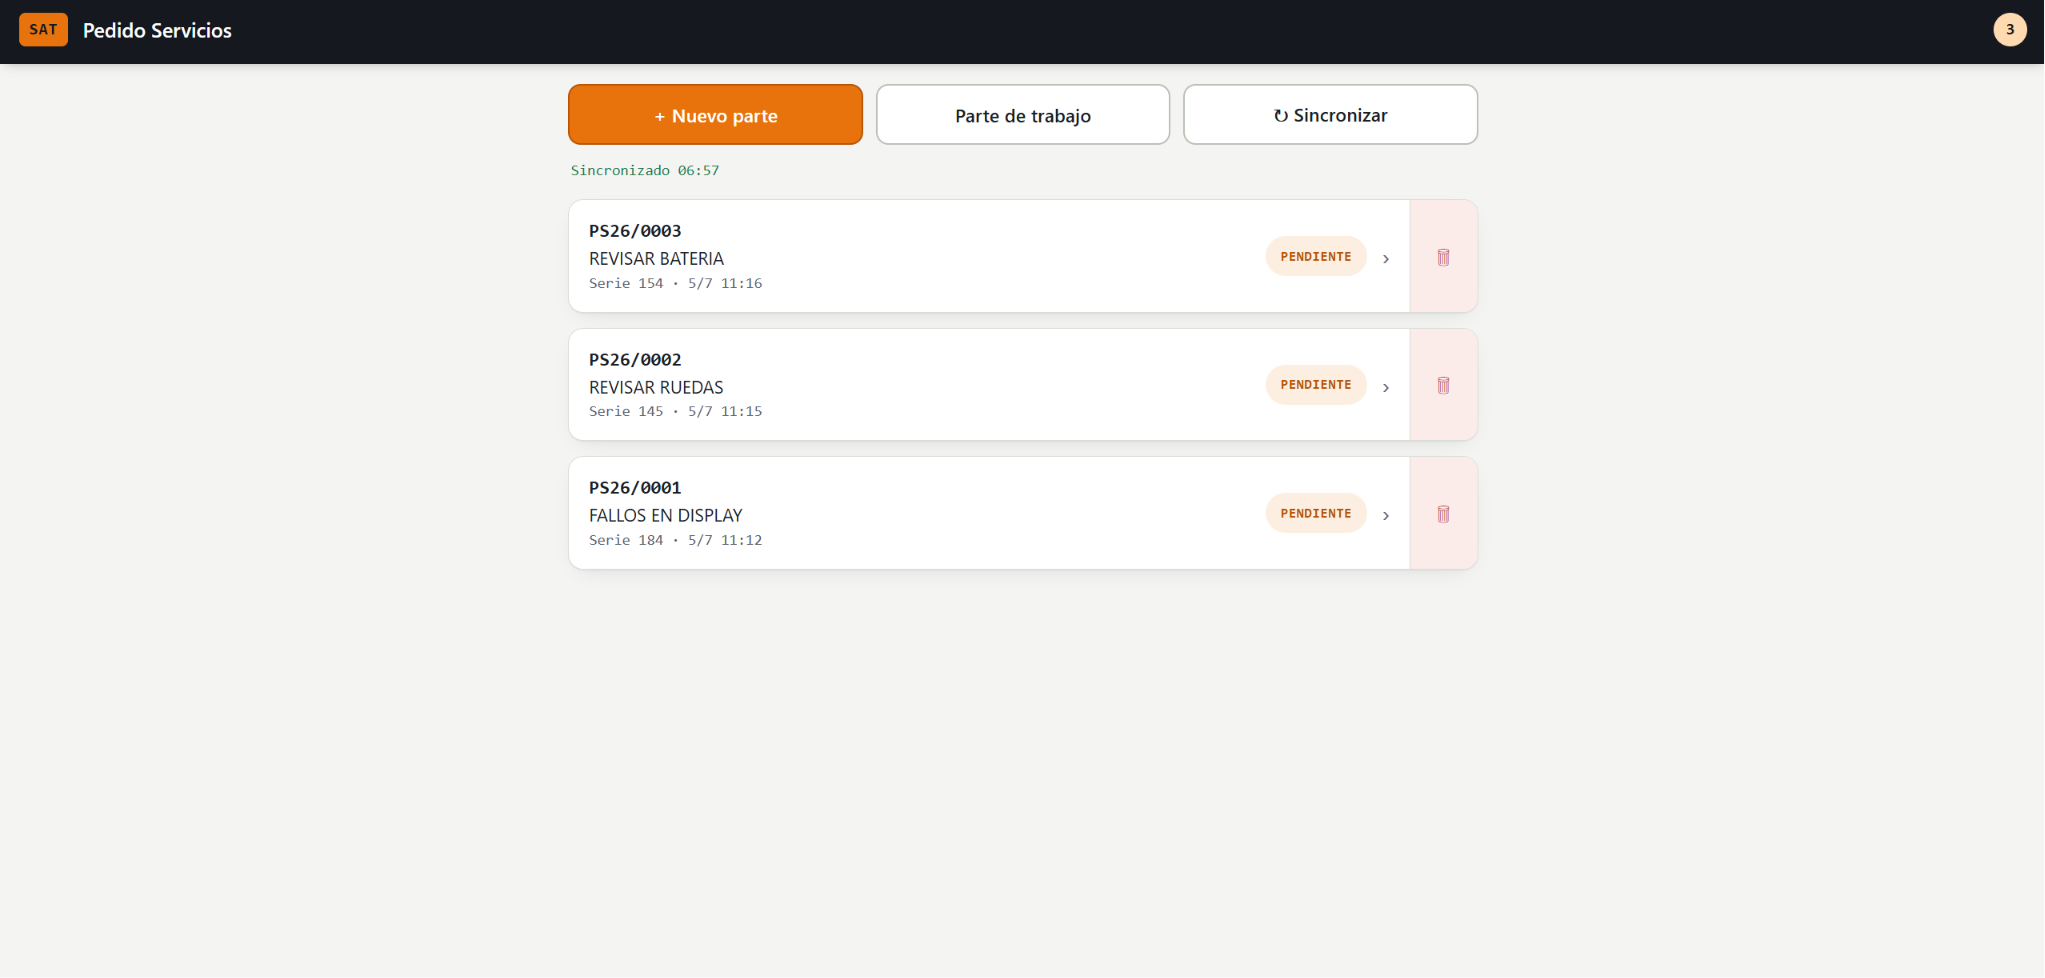
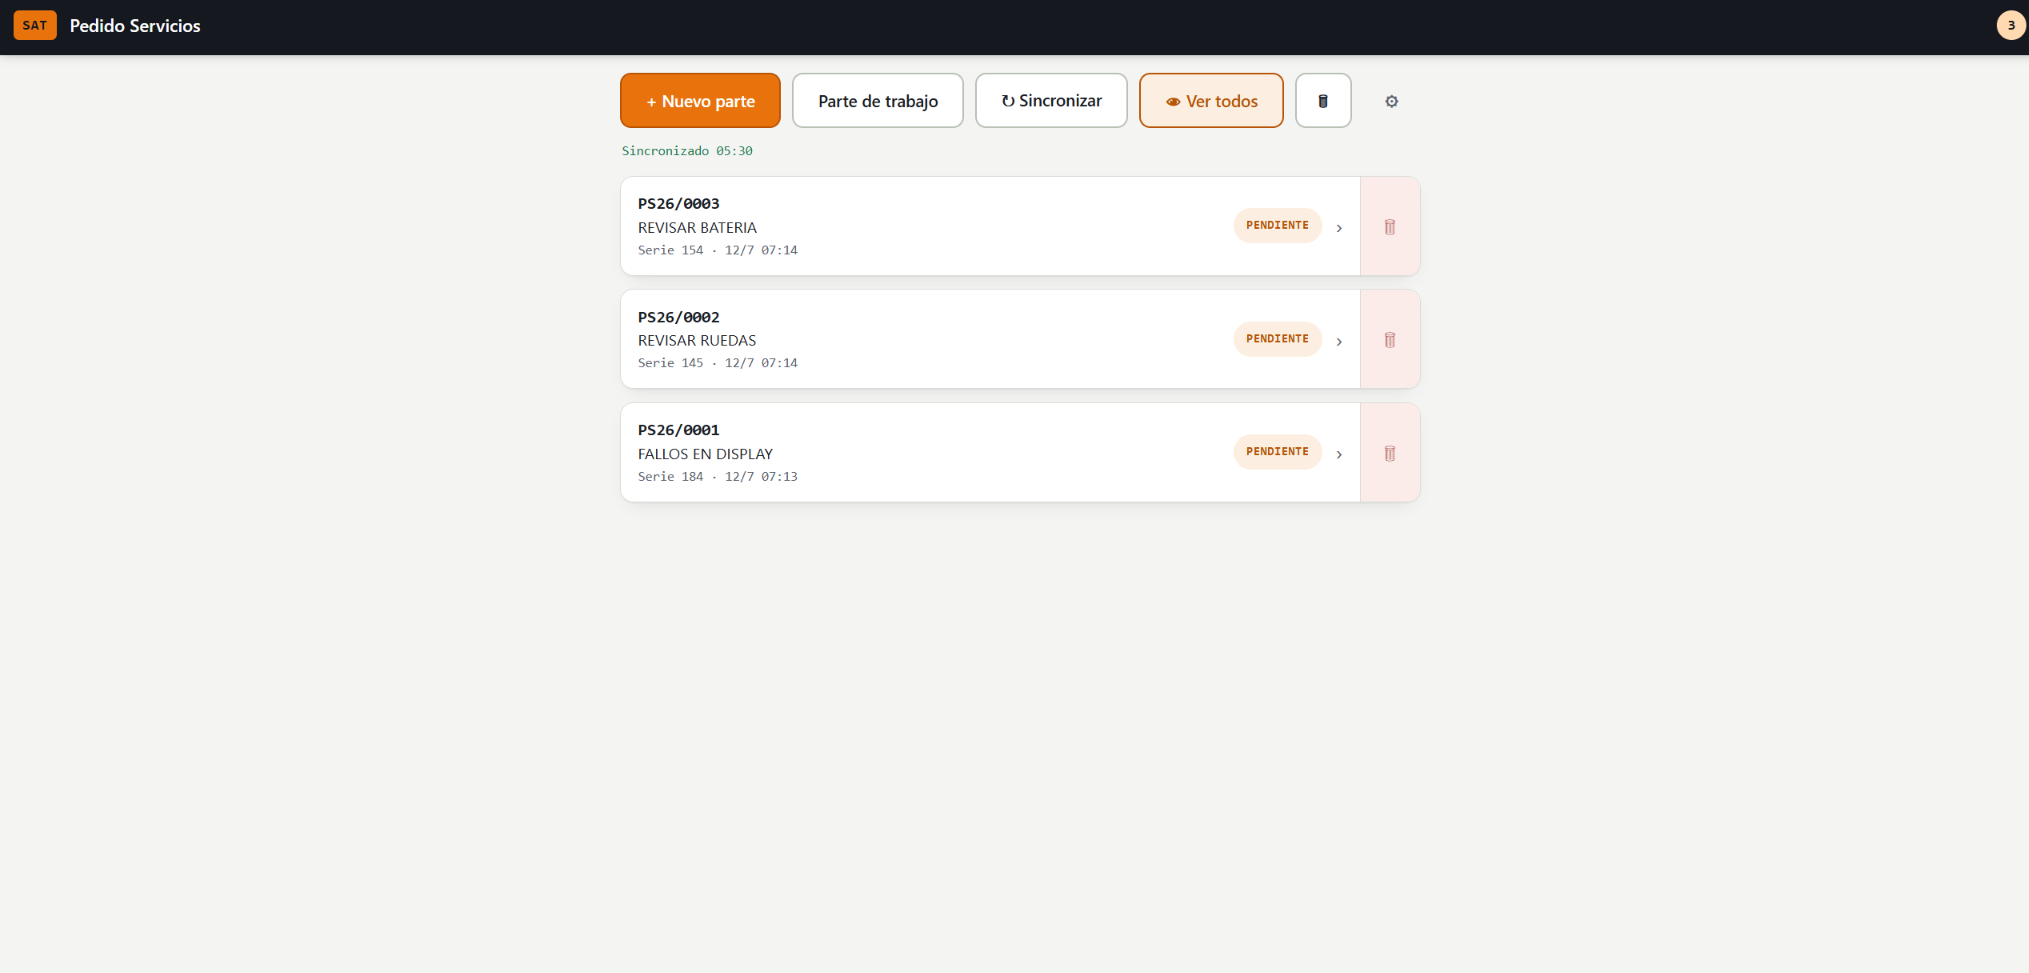
feat(rediseno): lightbox de capturas, mejoras SEO/UX y capturas actualizadas
- Lightbox para imágenes de proyectos (GIF AGV + capturas Pedido Servicios)
- Capturas de Pedido Servicios actualizadas
- SEO: og:image, twitter cards, JSON-LD (Person), og:site_name/locale
- UX: scroll-margin-top en anclas, scroll-spy en el nav, cierre del menú móvil con Esc/clic fuera
- Marco cian de separación en la tarjeta ancha
- README: añadida Calculadora de Nómina

Changed region(s): [[0.0, 0.0, 1.0, 0.555], [0.5899, 0.4317, 0.6831, 0.555]]

diff --git a/js/main.js b/js/main.js
@@ -14,16 +14,41 @@
 
   // Menú móvil
   if (burger && nav) {
-    burger.addEventListener("click", () => {
-      const open = nav.classList.toggle("open");
+    const setMenu = (open) => {
+      nav.classList.toggle("open", open);
       burger.setAttribute("aria-expanded", String(open));
-    });
+      burger.setAttribute("aria-label", open ? "Cerrar menú" : "Abrir menú");
+    };
+    burger.addEventListener("click", () => setMenu(!nav.classList.contains("open")));
     nav.querySelectorAll(".nav__links a").forEach((a) =>
-      a.addEventListener("click", () => {
-        nav.classList.remove("open");
-        burger.setAttribute("aria-expanded", "false");
-      })
+      a.addEventListener("click", () => setMenu(false))
     );
+    document.addEventListener("keydown", (e) => {
+      if (e.key === "Escape") setMenu(false);
+    });
+    document.addEventListener("click", (e) => {
+      if (nav.classList.contains("open") && !nav.contains(e.target)) setMenu(false);
+    });
+  }
+
+  // Scroll-spy: resalta el enlace de la sección visible
+  const navLinks = Array.from(document.querySelectorAll(".nav__links a"));
+  const spySections = navLinks
+    .map((a) => document.querySelector(a.getAttribute("href")))
+    .filter(Boolean);
+  if ("IntersectionObserver" in window && spySections.length) {
+    const spy = new IntersectionObserver(
+      (entries) => {
+        entries.forEach((e) => {
+          if (e.isIntersecting) {
+            const id = "#" + e.target.id;
+            navLinks.forEach((a) => a.classList.toggle("active", a.getAttribute("href") === id));
+          }
+        });
+      },
+      { rootMargin: "-45% 0px -50% 0px" }
+    );
+    spySections.forEach((s) => spy.observe(s));
   }
 
   // Nav "scrolled" + barra de progreso
@@ -108,6 +133,36 @@
     levels.forEach((el) => {
       el.style.setProperty("--w", el.dataset.lvl + "%");
       el.classList.add("animate");
+    });
+  }
+
+  // Lightbox para imágenes ampliables
+  const lightbox = document.getElementById("lightbox");
+  const lightboxImg = document.getElementById("lightboxImg");
+  const lightboxClose = document.getElementById("lightboxClose");
+  if (lightbox && lightboxImg) {
+    const openLightbox = (src, alt) => {
+      lightboxImg.src = src;
+      lightboxImg.alt = alt || "";
+      lightbox.classList.add("open");
+      lightbox.setAttribute("aria-hidden", "false");
+      document.body.style.overflow = "hidden";
+    };
+    const closeLightbox = () => {
+      lightbox.classList.remove("open");
+      lightbox.setAttribute("aria-hidden", "true");
+      document.body.style.overflow = "";
+      lightboxImg.src = "";
+    };
+    document.querySelectorAll("img.zoomable").forEach((img) =>
+      img.addEventListener("click", () => openLightbox(img.currentSrc || img.src, img.alt))
+    );
+    lightboxClose.addEventListener("click", closeLightbox);
+    lightbox.addEventListener("click", (e) => {
+      if (e.target === lightbox) closeLightbox();
+    });
+    document.addEventListener("keydown", (e) => {
+      if (e.key === "Escape" && lightbox.classList.contains("open")) closeLightbox();
     });
   }
 

diff --git a/css/styles.css b/css/styles.css
@@ -94,6 +94,7 @@ h1, h2, h3 { font-family: var(--font-display); line-height: 1.1; margin: 0; lett
 .nav__links { display: flex; gap: 6px; margin-left: auto; }
 .nav__links a { padding: 8px 14px; border-radius: 999px; font-size: 14px; font-weight: 500; color: var(--muted); transition: color 0.2s, background 0.2s; }
 .nav__links a:hover { color: var(--text); background: var(--surface); }
+.nav__links a.active { color: var(--text); background: var(--surface-2); box-shadow: inset 0 0 0 1px var(--line); }
 .nav__actions { display: flex; gap: 10px; }
 .nav__burger { display: none; flex-direction: column; gap: 5px; background: none; border: 0; cursor: pointer; padding: 8px; }
 .nav__burger span { width: 24px; height: 2px; background: var(--text); border-radius: 2px; transition: transform 0.3s, opacity 0.3s; }
@@ -151,6 +152,7 @@ h1, h2, h3 { font-family: var(--font-display); line-height: 1.1; margin: 0; lett
 @keyframes scrolldot { 0% { opacity: 0; transform: translateY(0); } 40% { opacity: 1; } 80% { opacity: 0; transform: translateY(14px); } }
 
 /* ---------- Sections ---------- */
+.hero, .section { scroll-margin-top: 84px; }
 .section { max-width: var(--maxw); margin: 0 auto; padding: 80px 24px; }
 .section__head { max-width: 720px; margin-bottom: 46px; }
 .eyebrow { display: inline-block; font-family: var(--font-display); font-size: 13px; font-weight: 600; letter-spacing: 0.14em; text-transform: uppercase; color: var(--brand); margin-bottom: 12px; }
@@ -207,7 +209,13 @@ h1, h2, h3 { font-family: var(--font-display); line-height: 1.1; margin: 0; lett
 .pcard__media img { width: 100%; height: 180px; object-fit: cover; border-bottom: 1px solid var(--line); }
 
 /* Tarjeta a todo el ancho: imágenes grandes arriba, texto debajo (estilo feature) */
-.pcard--wide { grid-column: 1 / -1; }
+.pcard--wide {
+  grid-column: 1 / -1;
+  border-color: rgba(0, 229, 255, 0.32);
+  background: linear-gradient(135deg, rgba(0, 229, 255, 0.09), rgba(255, 255, 255, 0.02));
+  box-shadow: var(--shadow);
+}
+.pcard--wide .pcard__media { border-bottom: 1px solid var(--line-strong); }
 .pcard--wide .pcard__media img { height: auto; object-fit: contain; }
 .pcard__body { padding: 26px; display: flex; flex-direction: column; gap: 10px; }
 .pcard__body h3 { font-size: 1.3rem; }
@@ -244,6 +252,43 @@ h1, h2, h3 { font-family: var(--font-display); line-height: 1.1; margin: 0; lett
 .field textarea { resize: vertical; }
 .hp { position: absolute; left: -9999px; opacity: 0; height: 0; overflow: hidden; }
 .status { margin: 4px 0 0; min-height: 20px; font-size: 14px; color: var(--muted); }
+
+/* ---------- Zoomable images + Lightbox ---------- */
+.zoomable { cursor: zoom-in; }
+.feature__media, .pcard__media { position: relative; }
+.feature__media::after, .pcard__media::after {
+  content: "🔍 Ampliar"; position: absolute; bottom: 12px; right: 12px;
+  padding: 6px 12px; border-radius: 999px; font-size: 12px; font-weight: 600;
+  background: rgba(7, 11, 22, 0.78); color: #fff; border: 1px solid var(--line-strong);
+  opacity: 0; transform: translateY(6px); transition: opacity 0.25s, transform 0.25s;
+  pointer-events: none; backdrop-filter: blur(6px);
+}
+.feature__media:hover::after, .pcard__media:hover::after { opacity: 1; transform: none; }
+
+.lightbox {
+  position: fixed; inset: 0; z-index: 200; display: none;
+  align-items: center; justify-content: center; padding: 4vmin;
+  background: rgba(4, 6, 14, 0.9); backdrop-filter: blur(8px);
+  opacity: 0; transition: opacity 0.25s ease;
+}
+.lightbox.open { display: flex; opacity: 1; }
+.lightbox__img {
+  max-width: 96vw; max-height: 92vh; width: auto; height: auto;
+  border-radius: var(--radius-sm); border: 1px solid var(--line-strong);
+  box-shadow: var(--shadow); transform: scale(0.97); transition: transform 0.25s ease;
+}
+.lightbox.open .lightbox__img { transform: none; }
+.lightbox__close {
+  position: absolute; top: 18px; right: 22px; width: 44px; height: 44px;
+  display: grid; place-items: center; border-radius: 50%; cursor: pointer;
+  background: var(--surface-2); border: 1px solid var(--line-strong); color: #fff;
+  font-size: 20px; line-height: 1; transition: background 0.2s, transform 0.15s;
+}
+.lightbox__close:hover { background: rgba(255, 255, 255, 0.14); transform: scale(1.05); }
+
+@media (prefers-reduced-motion: reduce) {
+  .lightbox, .lightbox__img { transition: none; }
+}
 
 /* ---------- Footer ---------- */
 .footer { max-width: var(--maxw); margin: 0 auto; padding: 30px 24px 50px; display: flex; justify-content: space-between; gap: 12px; color: var(--faint); font-size: 14px; border-top: 1px solid var(--line); }

diff --git a/index.html b/index.html
@@ -12,7 +12,7 @@
     <link rel="apple-touch-icon" href="/assets/icons/apple-touch-icon.png" />
     <link rel="manifest" href="/assets/icons/site.webmanifest" />
     <meta name="msapplication-config" content="/assets/icons/browserconfig.xml" />
-    <meta name="theme-color" content="#0b1020" />
+    <meta name="theme-color" content="#070b16" />
 
     <meta
       name="description"
@@ -22,13 +22,41 @@
 
     <!-- Open Graph -->
     <meta property="og:type" content="website" />
+    <meta property="og:site_name" content="AdrianZgzDev" />
+    <meta property="og:locale" content="es_ES" />
     <meta property="og:title" content="Adrián Zgz Dev | Portfolio Híbrido" />
     <meta
       property="og:description"
       content="25+ años de experiencia industrial + Mobile Robotics + Full-Stack. Proyectos reales con ROS 2, Nav2, FastAPI y React aplicados a AGV/AMR systems."
     />
     <meta property="og:url" content="https://www.adrianzgzdev.com/" />
+    <meta property="og:image" content="https://www.adrianzgzdev.com/assets/icons/android-chrome-512x512.png" />
     <meta name="twitter:card" content="summary_large_image" />
+    <meta name="twitter:title" content="Adrián Zgz Dev | Portfolio Híbrido" />
+    <meta
+      name="twitter:description"
+      content="25+ años de experiencia industrial + Mobile Robotics + Full-Stack aplicados a AGV/AMR systems."
+    />
+    <meta name="twitter:image" content="https://www.adrianzgzdev.com/assets/icons/android-chrome-512x512.png" />
+
+    <!-- Structured data -->
+    <script type="application/ld+json">
+      {
+        "@context": "https://schema.org",
+        "@type": "Person",
+        "name": "Adrián Zgz",
+        "alternateName": "AdrianZgzDev",
+        "url": "https://www.adrianzgzdev.com/",
+        "email": "[email redacted]",
+        "jobTitle": "Técnico Electromecánico · Mobile Robotics & Full-Stack Developer",
+        "address": { "@type": "PostalAddress", "addressLocality": "Zaragoza", "addressCountry": "ES" },
+        "knowsAbout": ["ROS 2", "Nav2", "AGV/AMR", "Python", "FastAPI", "React", "Electromecánica industrial"],
+        "sameAs": [
+          "https://github.com/adrianzgzdev",
+          "https://www.linkedin.com/in/adrianzgzdev"
+        ]
+      }
+    </script>
 
     <!-- Fonts -->
     <link rel="preconnect" href="https://fonts.googleapis.com" />
@@ -221,6 +249,7 @@
         <div class="feature__media">
           <span class="feature__badge">🌟 Proyecto integrado</span>
           <img
+            class="zoomable"
             src="https://raw.githubusercontent.com/adrianzgzdev/agv_logistics_nav2/main/demo_phase_4.gif"
             alt="AGV Fleet Dashboard con navegación, misión, supervisión de seguridad y monitorización web en tiempo real"
             loading="lazy"
@@ -264,8 +293,8 @@
       <div class="proj-grid">
         <article class="pcard pcard--wide reveal">
           <div class="pcard__media pcard__media--split">
-            <img src="/assets/projects/pedido-servicios-lista.png" alt="Lista de partes de trabajo con estado pendiente/volcado y sincronización" loading="lazy" />
-            <img src="/assets/projects/pedido-servicios-timeline.png" alt="Vista de jornada con cálculo de horas trabajadas y empalmes automáticos" loading="lazy" />
+            <img class="zoomable" src="/assets/projects/pedido-servicios-lista.png" alt="Lista de partes de trabajo con estado pendiente/volcado y sincronización" loading="lazy" />
+            <img class="zoomable" src="/assets/projects/pedido-servicios-timeline.png" alt="Vista de jornada con cálculo de horas trabajadas y empalmes automáticos" loading="lazy" />
           </div>
           <div class="pcard__body">
             <h3>🔧 Pedido Servicios</h3>
@@ -499,6 +528,12 @@
       <span>© <span id="y"></span> Adrián · adrianzgzdev.com</span>
       <a href="/v1/">Versión clásica</a>
     </footer>
+
+    <!-- Lightbox -->
+    <div class="lightbox" id="lightbox" aria-hidden="true" role="dialog" aria-modal="true" aria-label="Vista ampliada">
+      <button class="lightbox__close" id="lightboxClose" aria-label="Cerrar">✕</button>
+      <img class="lightbox__img" id="lightboxImg" src="" alt="" />
+    </div>
 
     <script src="/js/main.js" defer></script>
   </body>

diff --git a/README.md b/README.md
@@ -30,6 +30,7 @@ El formulario envía los datos (vía `FormData`) a un **webhook de n8n** auto-al
 | [agv_logistics_nav2](https://github.com/adrianzgzdev/agv_logistics_nav2) | Plataforma autónoma de logística AGV con navegación, misiones, supervisión de seguridad y dashboard web en tiempo real | ROS 2 · Nav2 · FastAPI · WebSocket · React |
 | [partes](https://github.com/adrianzgzdev/partes) | Gestión de partes / pedido de servicios | Full-Stack |
 | [n8n-ai-contact-router](https://github.com/adrianzgzdev/n8n-ai-contact-router) | Enrutado inteligente de mensajes de contacto con IA | n8n · Webhooks · OpenAI API |
+| [calculadora-nomina](https://github.com/adrianzgzdev/calculadora-nomina) | Calculadora de nómina (neto mensual y bruto/neto anual) — [demo](https://adrianzgzdev.com/calculadora-nomina/) | HTML · CSS · JS vanilla · localStorage |
 | Infraestructura Self-Hosted | Servicios propios en VPS | Hetzner · Docker Swarm · Traefik v3 · TLS |
 
 ## 🛠️ Desarrollo local